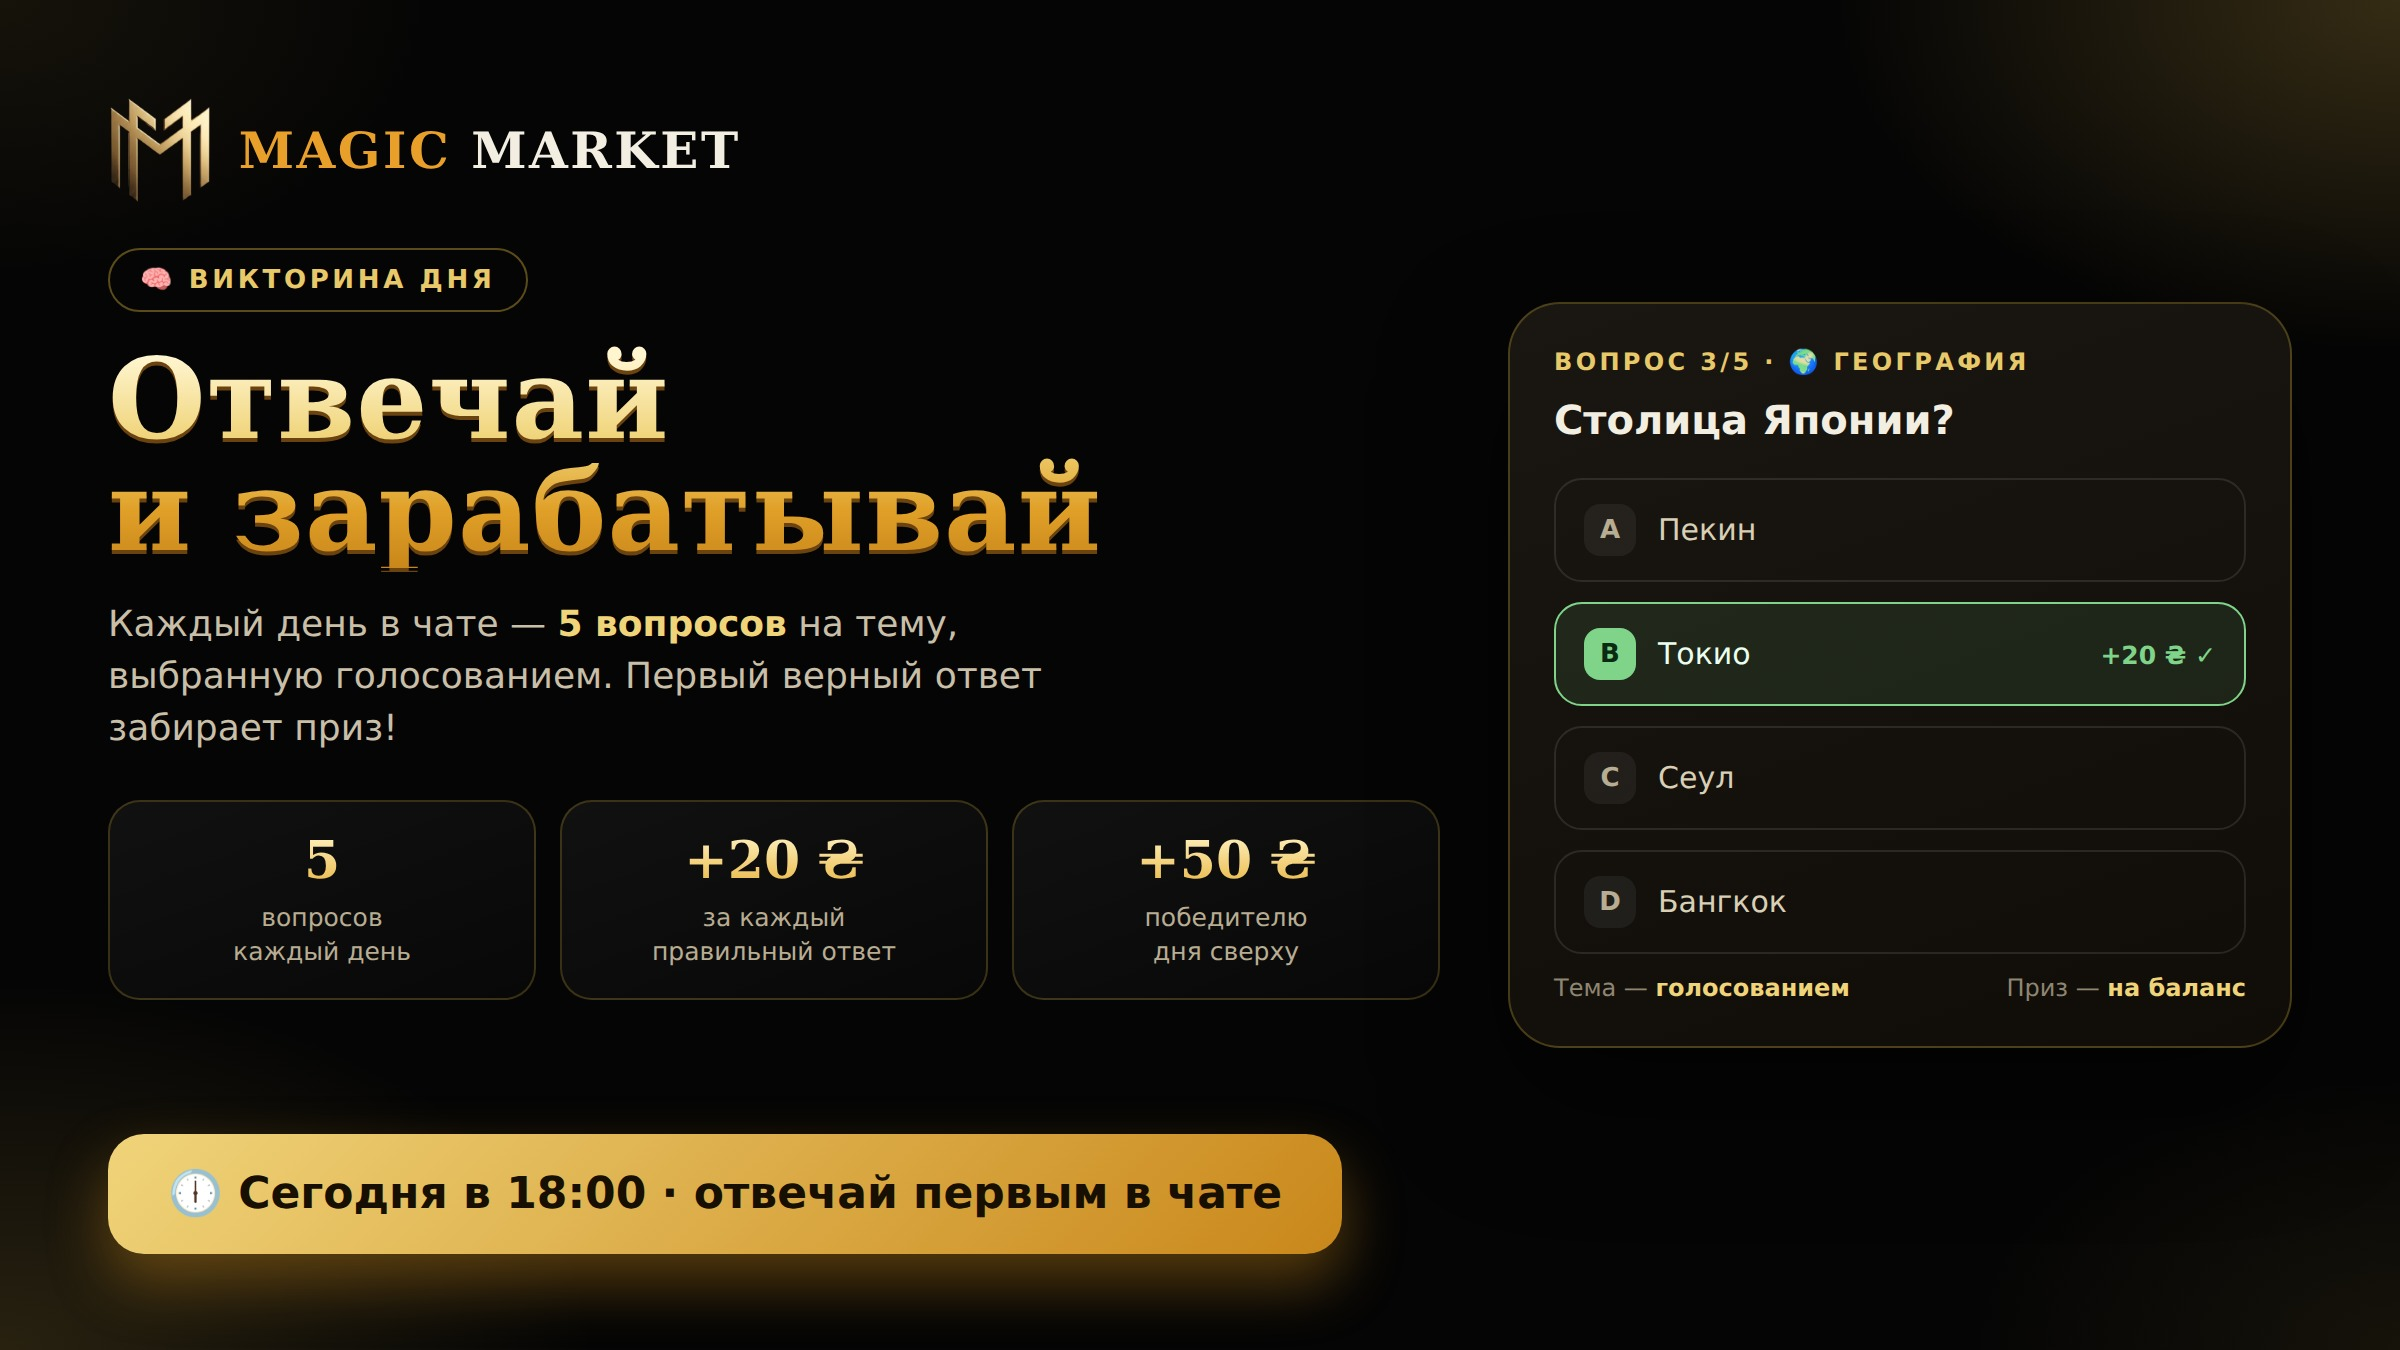
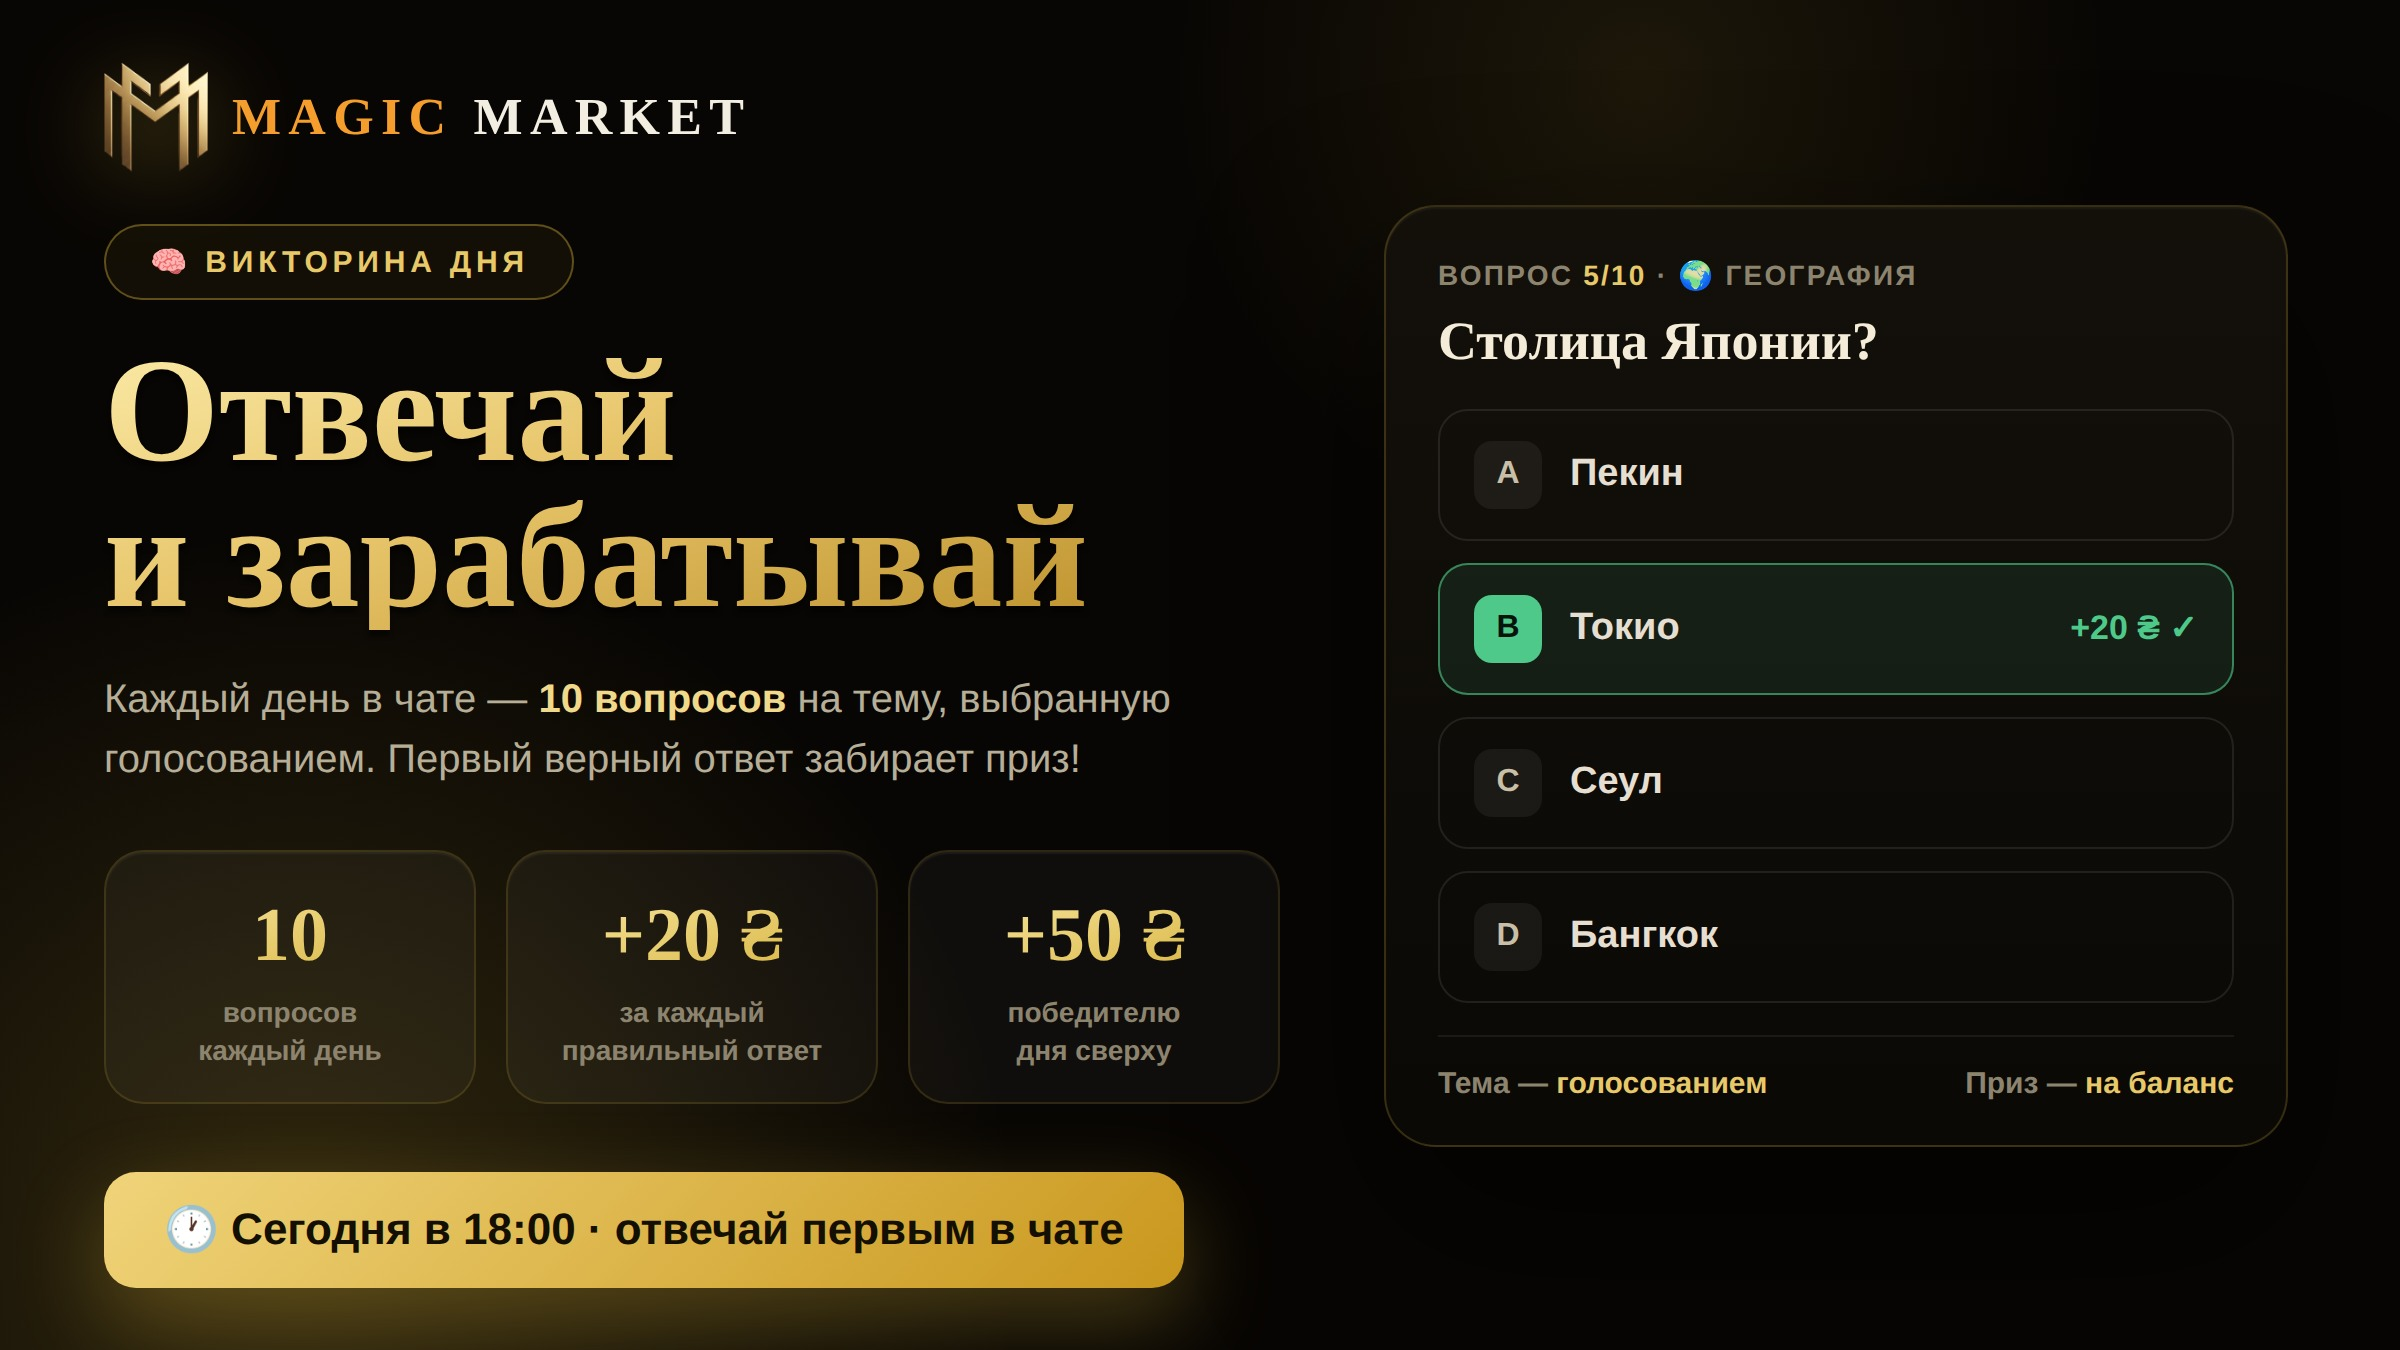
Промо: викторина — 10 вопросов в посте и на баннере (#115)
Пост-анонс викторины в канал обновлён: 10 вопросов (было 5) + строка про то,
что вопрос показывается заранее, а варианты — через паузу. Баннер
promo/egrow-quiz.jpg перерисован (5 → 10 везде: текст, крупная цифра,
«ВОПРОС 5/10»). Исходник баннера сохранён в promo/src/banner_quiz.html.

Claude-Session: https://claude.ai/code/session_01Y1zXFtLJnFv2zuHb58MY2K

diff --git a/promo/src/banner_quiz.html b/promo/src/banner_quiz.html
@@ -1,0 +1,76 @@
+<!DOCTYPE html><html lang="ru"><head><meta charset="UTF-8">
+<link href="https://fonts.googleapis.com/css2?family=Cinzel:wght@700;800;900&family=Manrope:wght@500;600;700;800&display=swap" rel="stylesheet">
+<style>
+*{margin:0;padding:0;box-sizing:border-box}
+body{width:1200px;height:675px;overflow:hidden;position:relative;font-family:'Manrope',sans-serif;
+  background:#080604;color:#f3eee2;display:flex;align-items:center}
+.glow{position:absolute;width:820px;height:820px;bottom:-360px;left:-260px;border-radius:50%;
+  background:radial-gradient(circle,rgba(212,175,55,.20),transparent 62%);pointer-events:none}
+.glow2{position:absolute;width:520px;height:520px;top:-220px;right:120px;border-radius:50%;
+  background:radial-gradient(circle,rgba(212,175,55,.10),transparent 64%);pointer-events:none}
+
+.left{padding-left:52px;width:640px;position:relative;z-index:2}
+.logo-row{display:flex;align-items:center;gap:12px;margin-bottom:26px}
+.logo-row img{width:52px;filter:drop-shadow(0 8px 22px rgba(212,175,55,.45))}
+.logo-row span{font-family:'Cinzel',serif;font-weight:700;font-size:26px;letter-spacing:.14em}
+.pill-tag{display:inline-flex;align-items:center;gap:9px;border:1px solid rgba(212,175,55,.4);
+  border-radius:999px;padding:9px 22px;font-size:15px;font-weight:800;letter-spacing:.16em;
+  color:#e8c96a;background:rgba(212,175,55,.06)}
+.h{font-family:'Cinzel',serif;font-weight:900;font-size:74px;line-height:.98;margin:20px 0 0;
+  background:linear-gradient(160deg,#fbeaa6,#e6c368 42%,#b78a24);-webkit-background-clip:text;
+  background-clip:text;color:transparent;filter:drop-shadow(0 3px 1px rgba(0,0,0,.5))}
+.tag{font-size:20px;color:#b7ae98;margin-top:20px;line-height:1.5;max-width:560px}
+.tag b{color:#f0d98a}
+.stats{display:flex;gap:15px;margin-top:30px;max-width:600px}
+.stat{flex:1;background:rgba(255,255,255,.035);border:1px solid rgba(212,175,55,.16);border-radius:20px;
+  padding:20px 10px 16px;text-align:center;box-shadow:inset 0 1px 1px rgba(255,255,255,.06)}
+.stat b{display:block;font-family:'Cinzel',serif;font-weight:800;font-size:38px;
+  background:linear-gradient(160deg,#fbeaa6,#d4af37);-webkit-background-clip:text;background-clip:text;color:transparent}
+.stat span{display:block;font-size:14px;color:#8d846f;font-weight:600;line-height:1.35;margin-top:7px}
+.cta{display:inline-flex;align-items:center;gap:12px;margin-top:34px;border-radius:16px;
+  padding:16px 30px;font-size:22px;font-weight:800;color:#140f03;
+  background:linear-gradient(135deg,#f0d47a,#c9971d);box-shadow:0 16px 44px rgba(212,175,55,.30)}
+
+.card{position:absolute;right:56px;top:50%;transform:translateY(-50%);width:452px;z-index:2;
+  background:linear-gradient(180deg,rgba(20,17,11,.96),rgba(11,9,6,.96));
+  border:1px solid rgba(212,175,55,.22);border-radius:26px;padding:26px 26px 22px;
+  box-shadow:0 40px 90px rgba(0,0,0,.6),inset 0 1px 1px rgba(255,255,255,.05)}
+.q-top{font-size:14px;font-weight:800;letter-spacing:.08em;color:#8d846f;margin-bottom:10px}
+.q-top b{color:#e8c96a}
+.q{font-family:'Manrope';font-weight:800;font-size:27px;color:#f4ecd8;margin-bottom:18px}
+.opt{display:flex;align-items:center;gap:14px;border:1px solid rgba(255,255,255,.09);border-radius:15px;
+  padding:15px 17px;margin-bottom:11px;font-size:19px;color:#e6ded0;font-weight:600}
+.opt .k{width:34px;height:34px;flex:none;border-radius:9px;background:rgba(255,255,255,.06);
+  display:flex;align-items:center;justify-content:center;font-weight:800;font-size:16px;color:#c9bfa8}
+.opt.win{border-color:rgba(78,201,138,.6);background:rgba(78,201,138,.10)}
+.opt.win .k{background:#4ec98a;color:#08130c}
+.opt .win-tag{margin-left:auto;font-weight:800;color:#4ec98a;font-size:17px}
+.card-foot{display:flex;justify-content:space-between;font-size:15px;color:#8d846f;font-weight:600;
+  margin-top:16px;padding-top:15px;border-top:1px solid rgba(255,255,255,.07)}
+.card-foot b{color:#e8c96a}
+</style></head><body>
+<div class="glow"></div><div class="glow2"></div>
+
+<div class="left">
+  <div class="logo-row"><img src="file:///home/user/mm/logo.png"><span><b style="color:#f59e2d">MAGIC</b> MARKET</span></div>
+  <div class="pill-tag">🧠 ВИКТОРИНА ДНЯ</div>
+  <div class="h">Отвечай<br>и зарабатывай</div>
+  <div class="tag">Каждый день в чате — <b>10 вопросов</b> на тему, выбранную голосованием. Первый верный ответ забирает приз!</div>
+  <div class="stats">
+    <div class="stat"><b>10</b><span>вопросов<br>каждый день</span></div>
+    <div class="stat"><b>+20 ₴</b><span>за каждый<br>правильный ответ</span></div>
+    <div class="stat"><b>+50 ₴</b><span>победителю<br>дня сверху</span></div>
+  </div>
+  <div class="cta">🕐 Сегодня в 18:00 · отвечай первым в чате</div>
+</div>
+
+<div class="card">
+  <div class="q-top">ВОПРОС <b>5/10</b> · 🌍 ГЕОГРАФИЯ</div>
+  <div class="q">Столица Японии?</div>
+  <div class="opt"><span class="k">A</span>Пекин</div>
+  <div class="opt win"><span class="k">B</span>Токио<span class="win-tag">+20 ₴ ✓</span></div>
+  <div class="opt"><span class="k">C</span>Сеул</div>
+  <div class="opt"><span class="k">D</span>Бангкок</div>
+  <div class="card-foot"><span>Тема — <b>голосованием</b></span><span>Приз — <b>на баланс</b></span></div>
+</div>
+</body></html>

diff --git a/main.py b/main.py
@@ -87,7 +87,8 @@ PROMO_POSTS = [
     ("promo/egrow-quiz.jpg",
      "🧠 <b>ВИКТОРИНА ДНЯ</b> — сегодня в 18:00!\n\n"
      "• Голосуем за тему дня (история, космос, кино и др.)\n"
-     "• 5 вопросов по теме-победителю\n"
+     "• <b>10 вопросов</b> по теме-победителю\n"
+     "• Вопрос показываем заранее — успеешь прочитать, потом варианты\n"
      "• Первый верный ответ забирает приз\n\n"
      "Награды на баланс магазина:\n"
      "• <b>+20 ₴</b> за каждый правильный ответ\n"
